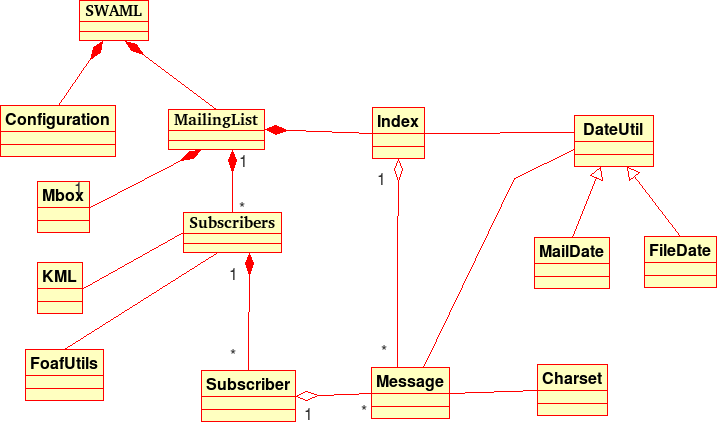
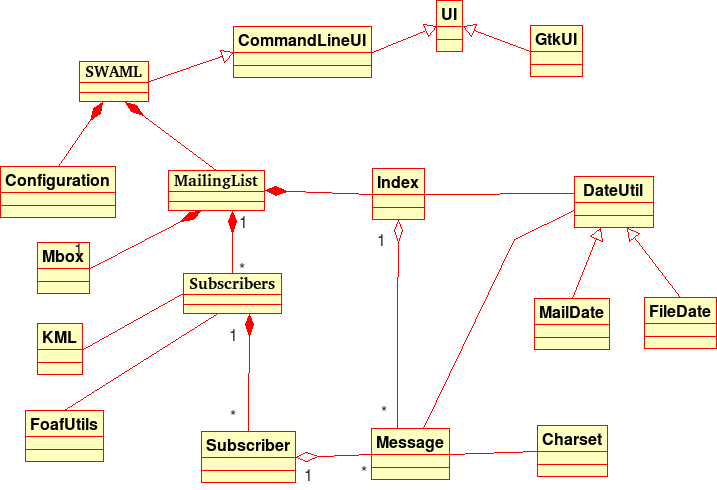
new class diagrams added at TeX files

diff --git a/doc/es/pfc/metodologia/analisis-diseno.tex b/doc/es/pfc/metodologia/analisis-diseno.tex
@@ -7,7 +7,23 @@ FIXME
 
 \subsection{Vista lógica}
 
-FIXME
+\subsubsection{Diagrama de clase de SWAML}
+
+\begin{figure}[p]
+	\centering
+ 	\includegraphics[width=14cm]{images/uml/clases/swaml.png}
+	\caption{Diagrama de clase de SWAML}
+	\label{fig:uml:swaml}
+\end{figure}
+
+\subsubsection{Diagrama de clase de Buxon}
+
+\begin{figure}[p]
+	\centering
+ 	\includegraphics[width=15cm]{images/uml/clases/buxon.png}
+	\caption{Diagrama de clase de Buxon}
+	\label{fig:uml:buxon}
+\end{figure}
 
 \subsection{Vista de procesos}
 
